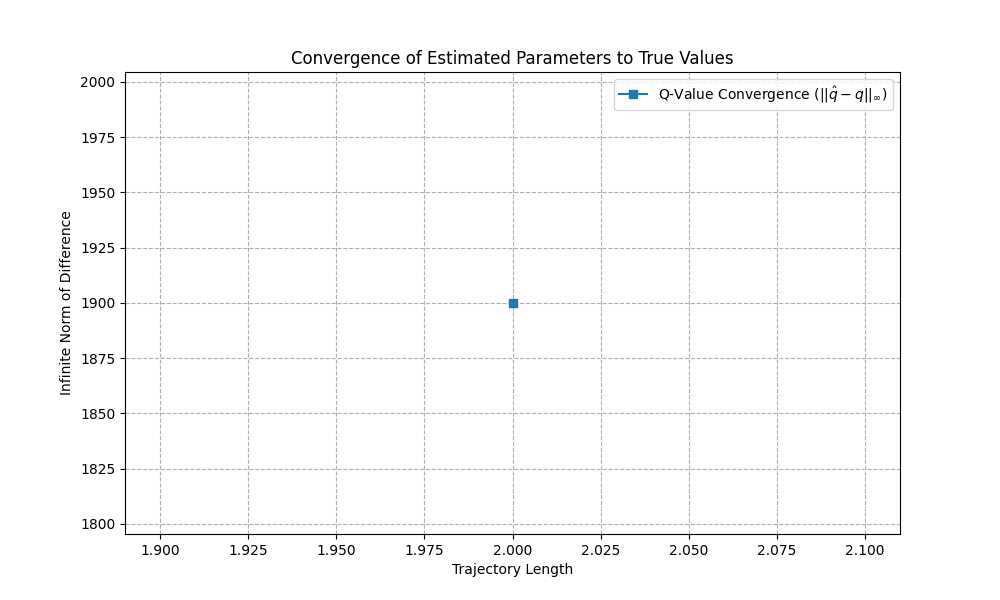
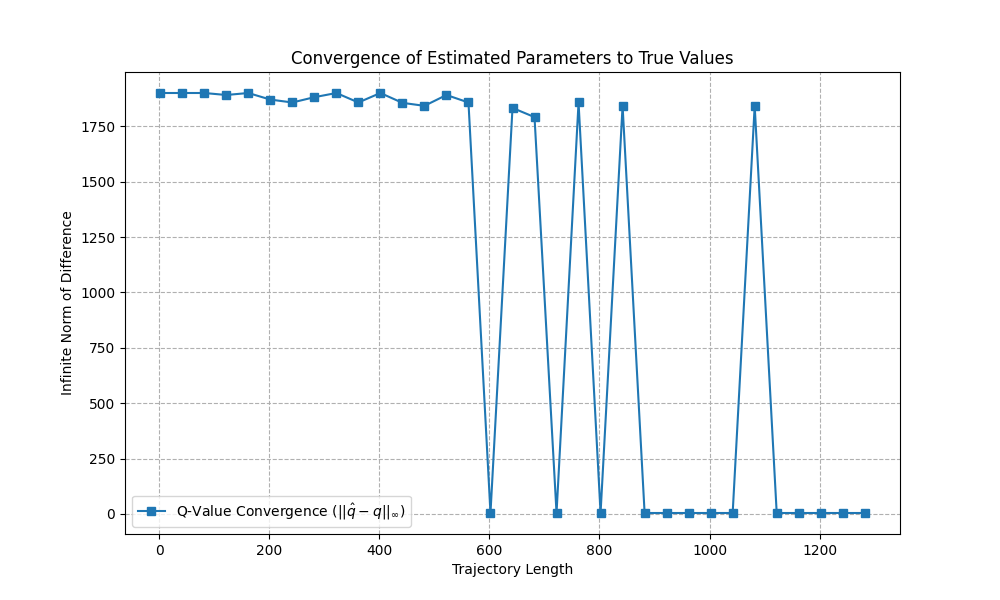
trying to debug s4

diff --git a/section4.py b/section4.py
@@ -187,7 +187,6 @@ def det_j_func(domain, state, policy, N, mdp):
     else:
         j = 0
         state_index = state[0] * domain.n + state[1]
-        print(state[0], state[1], state_index)
         action = policy[state_index]
         j = mdp.get_rew(state, action) + domain.discount * det_j_func(domain, domain.dynamic(state, action), policy, N-1, mdp)
         return j
@@ -223,10 +222,11 @@ if __name__ == "__main__":
 
     # Initialize MDP
     mdp_e = MDPEstimator(domain)  
+    mdp_e_sto = MDPEstimator(domain)
     mdp = MDP(domain)
 
 
-    trajectory_lengths = np.arange(2, 41, 40)
+    trajectory_lengths = np.arange(2, 1300, 40)
     inf_norm_r = []
     inf_norm_p = []
     inf_norm_q = []
@@ -249,62 +249,75 @@ if __name__ == "__main__":
     det_policy = []
     sto_policy = []
 
+    # from multiprocessing import ThreadPool
+
+
+    # for i, length in enumerate(trajectory_lengths):
+    #     print(f'"det" iter {i+1}/{len(trajectory_lengths)}: trajectory length = {length}')
+
+    #     ## DETERMINISTIC DOMAIN
+    #     sequence = mdp_e.get_sequence(length, s0)
+        
+    #     mdp_e.compute_r_hat(sequence)
+    #     mdp_e.compute_p_hat(sequence)
+        
+    #     inf_norm_r.append(mdp_e.compute_inf_norm(mdp_e.r_hat, true_r, type="r"))
+    #     inf_norm_p.append(mdp_e.compute_inf_norm(mdp_e.p_hat, true_p, type="p"))
+
+    #     mdp_e.Q_N.cache_clear()
+    #     q_hat = {}
+    #     for key in mdp_e.allowed_sa:
+    #         s, a = key
+    #         test = mdp_e.Q_N(s, a, 600)
+    #         q_hat[key] = test
+    #     inf_norm_q.append(mdp_e.compute_inf_norm(q_hat, true_q, type="q"))
+
+    #     det_policy_current = [max(domain.actions, key=lambda a: q_hat[(s, a)]) for s in product(range(domain.n), range(domain.m))]
+    
+    trajectory_lengths = np.arange(12000, 32041, 1000)
     for i, length in enumerate(trajectory_lengths):
-        print(f'iter {i+1}/{len(trajectory_lengths)}: trajectory length = {length}')
-        sequence = mdp_e.get_sequence(length, s0)
+        print(f'"sto" iter {i+1}/{len(trajectory_lengths)}: trajectory length = {length}')
+
+        ## STOCHASTIC DOMAIN
+        sequence_sto = mdp_e_sto.get_sequence(length, s0, type="sto")
         
-        mdp_e.compute_r_hat(sequence)
-        mdp_e.compute_p_hat(sequence)
+        mdp_e_sto.compute_r_hat(sequence_sto)
+        mdp_e_sto.compute_p_hat(sequence_sto)
         
-        inf_norm_r.append(mdp_e.compute_inf_norm(mdp_e.r_hat, true_r, type="r"))
-        inf_norm_p.append(mdp_e.compute_inf_norm(mdp_e.p_hat, true_p, type="p"))
-        mdp_e.Q_N.cache_clear()
-        q_hat = {}
-        for key in mdp_e.allowed_sa:
-            s, a = key
-            test = mdp_e.Q_N(s, a, 1000)
-            q_hat[key] = test
-        inf_norm_q.append(mdp_e.compute_inf_norm(q_hat, true_q, type="q"))
-        det_policy_current = [max(domain.actions, key=lambda a: q_hat[(s, a)]) for s in product(range(domain.n), range(domain.m))]
-        print(det_policy_current)
-        sequence_sto = mdp_e.get_sequence(length, s0, type="sto")
-        
-        mdp_e.compute_r_hat(sequence_sto)
-        mdp_e.compute_p_hat(sequence_sto)
-        
-        inf_norm_r_sto.append(mdp_e.compute_inf_norm(mdp_e.r_hat, true_r_sto, type="r"))
-        inf_norm_p_sto.append(mdp_e.compute_inf_norm(mdp_e.p_hat, true_p_sto, type="p"))
-        mdp_e.Q_N.cache_clear()
+        inf_norm_r_sto.append(mdp_e_sto.compute_inf_norm(mdp_e.r_hat, true_r_sto, type="r"))
+        inf_norm_p_sto.append(mdp_e_sto.compute_inf_norm(mdp_e.p_hat, true_p_sto, type="p"))
+
+        mdp_e_sto.Q_N.cache_clear()
         q_hat_sto = {}
         for key in mdp_e.allowed_sa:
             s, a = key
-            test = mdp_e.Q_N(s, a, 1000)
+            test = mdp_e_sto.Q_N(s, a, 600)
             q_hat_sto[key] = test
-        inf_norm_q_sto.append(mdp_e.compute_inf_norm(q_hat_sto, true_q_sto, type="q"))
+        inf_norm_q_sto.append(mdp_e_sto.compute_inf_norm(q_hat_sto, true_q_sto, type="q"))
         sto_policy_current = [max(domain.actions, key=lambda a: q_hat_sto[(s, a)]) for s in product(range(domain.n), range(domain.m))]
 
     # Visualization of convergence
-    plot_convergence(trajectory_lengths, inf_norm_r, type="r", fname='r_d')
-    plot_convergence(trajectory_lengths, inf_norm_p, type="p", fname='p_d')
-    plot_convergence(trajectory_lengths, inf_norm_q, type="q", fname='q_d')
+    # plot_convergence(trajectory_lengths, inf_norm_r, type="r", fname='r_d')
+    # plot_convergence(trajectory_lengths, inf_norm_p, type="p", fname='p_d')
+    # plot_convergence(trajectory_lengths, inf_norm_q, type="q", fname='q_d')
 
     plot_convergence(trajectory_lengths, inf_norm_r_sto, type="r", fname='r_sto')
     plot_convergence(trajectory_lengths, inf_norm_p_sto, type="p", fname='p_sto')
     plot_convergence(trajectory_lengths, inf_norm_q_sto, type="q", fname='q_sto')
 
-    det_policy = det_policy_current
+    # det_policy = det_policy_current
     sto_policy = sto_policy_current
 
     # Value of N we use to estimate J
     N = 10**4
 
     # Estimate J for our random policy in deterministic domain:
-    print('Deterministic domain')
-    print("s; J_(mu*)(s)")
-    for i in range(domain.n):
-        for j in range(domain.m):
-            s = (i,j)
-            print(f"({i},{j}); {det_j_func(domain, s, tuple(det_policy), N, mdp_e)}")
+    # print('Deterministic domain')
+    # print("s; J_(mu*)(s)")
+    # for i in range(domain.n):
+    #     for j in range(domain.m):
+    #         s = (i,j)
+    #         print(f"({i},{j}); {det_j_func(domain, s, tuple(det_policy), N, mdp_e)}")
 
     # Estimate J for our random policy in stochastic domain:
     print('Stochastic domain')
@@ -312,7 +325,7 @@ if __name__ == "__main__":
     for i in range(domain.n):
         for j in range(domain.m):
             s = (i,j)
-            print(f"({i},{j}); {sto_j_func(domain, s, tuple(sto_policy), N, mdp_e)}")
+            print(f"({i},{j}); {sto_j_func(domain, s, tuple(sto_policy), N, mdp_e_sto)}")
 
-    mdp.print_policy(det_policy, title='Deterministic policy')
+    # mdp.print_policy(det_policy, title='Deterministic policy')
     mdp.print_policy(sto_policy, title='Stochastic policy')
